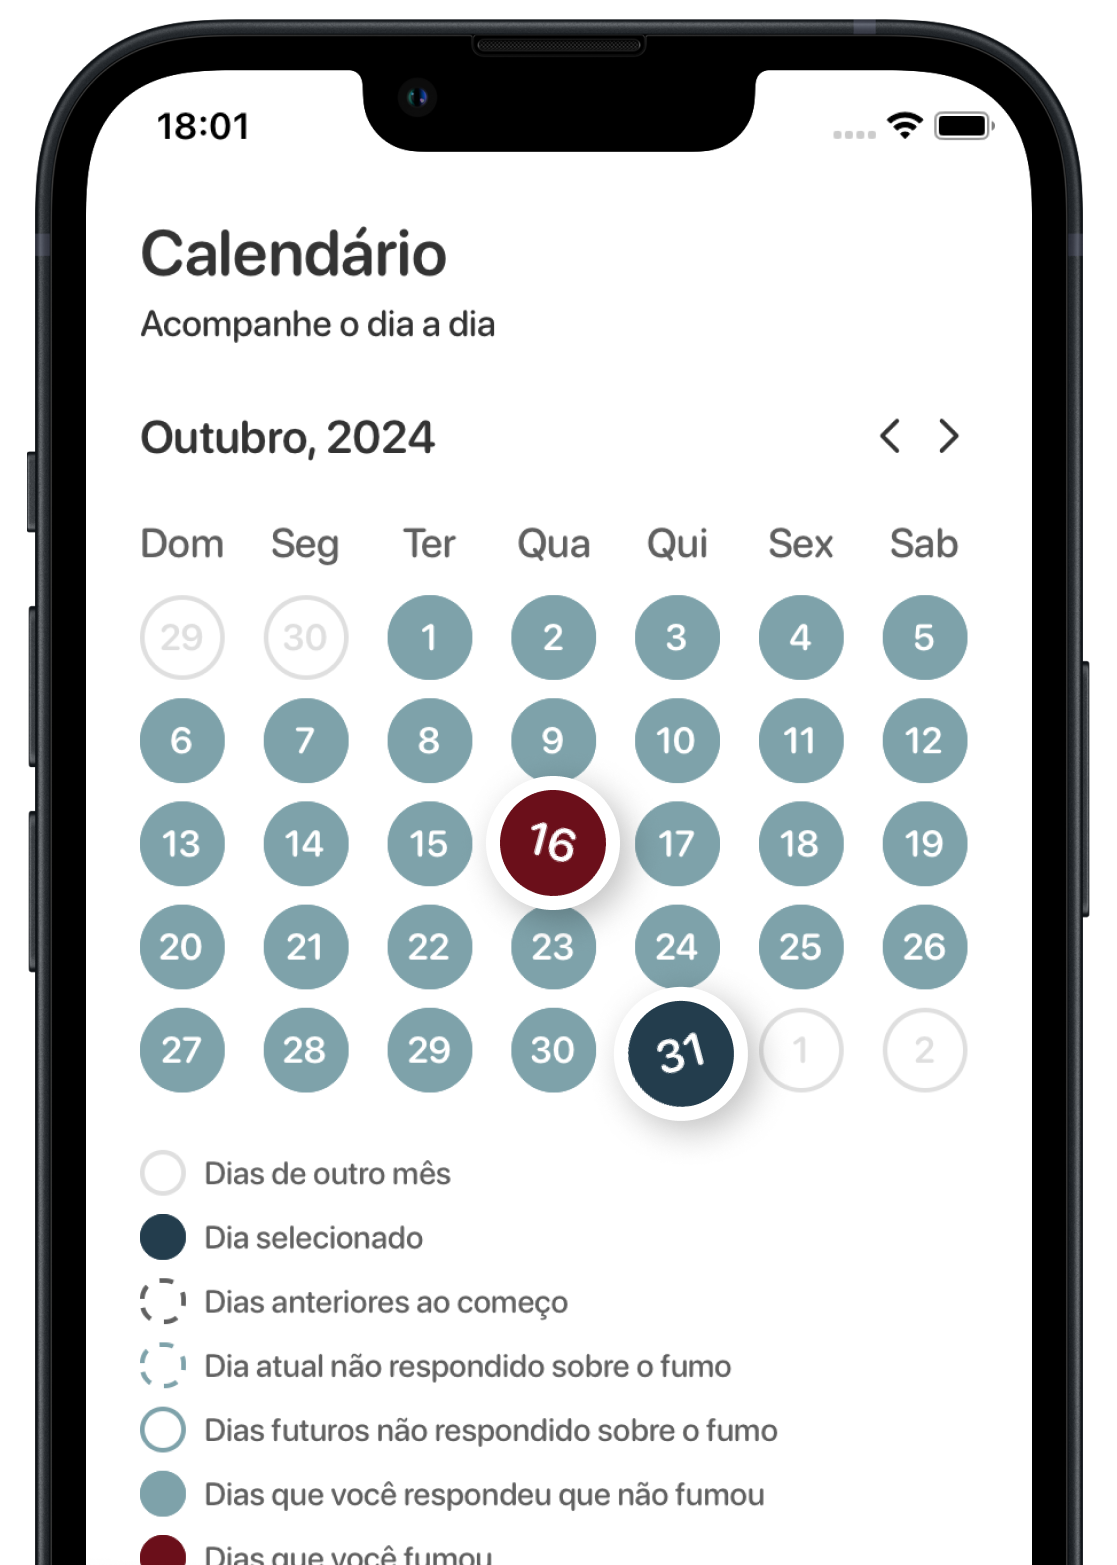
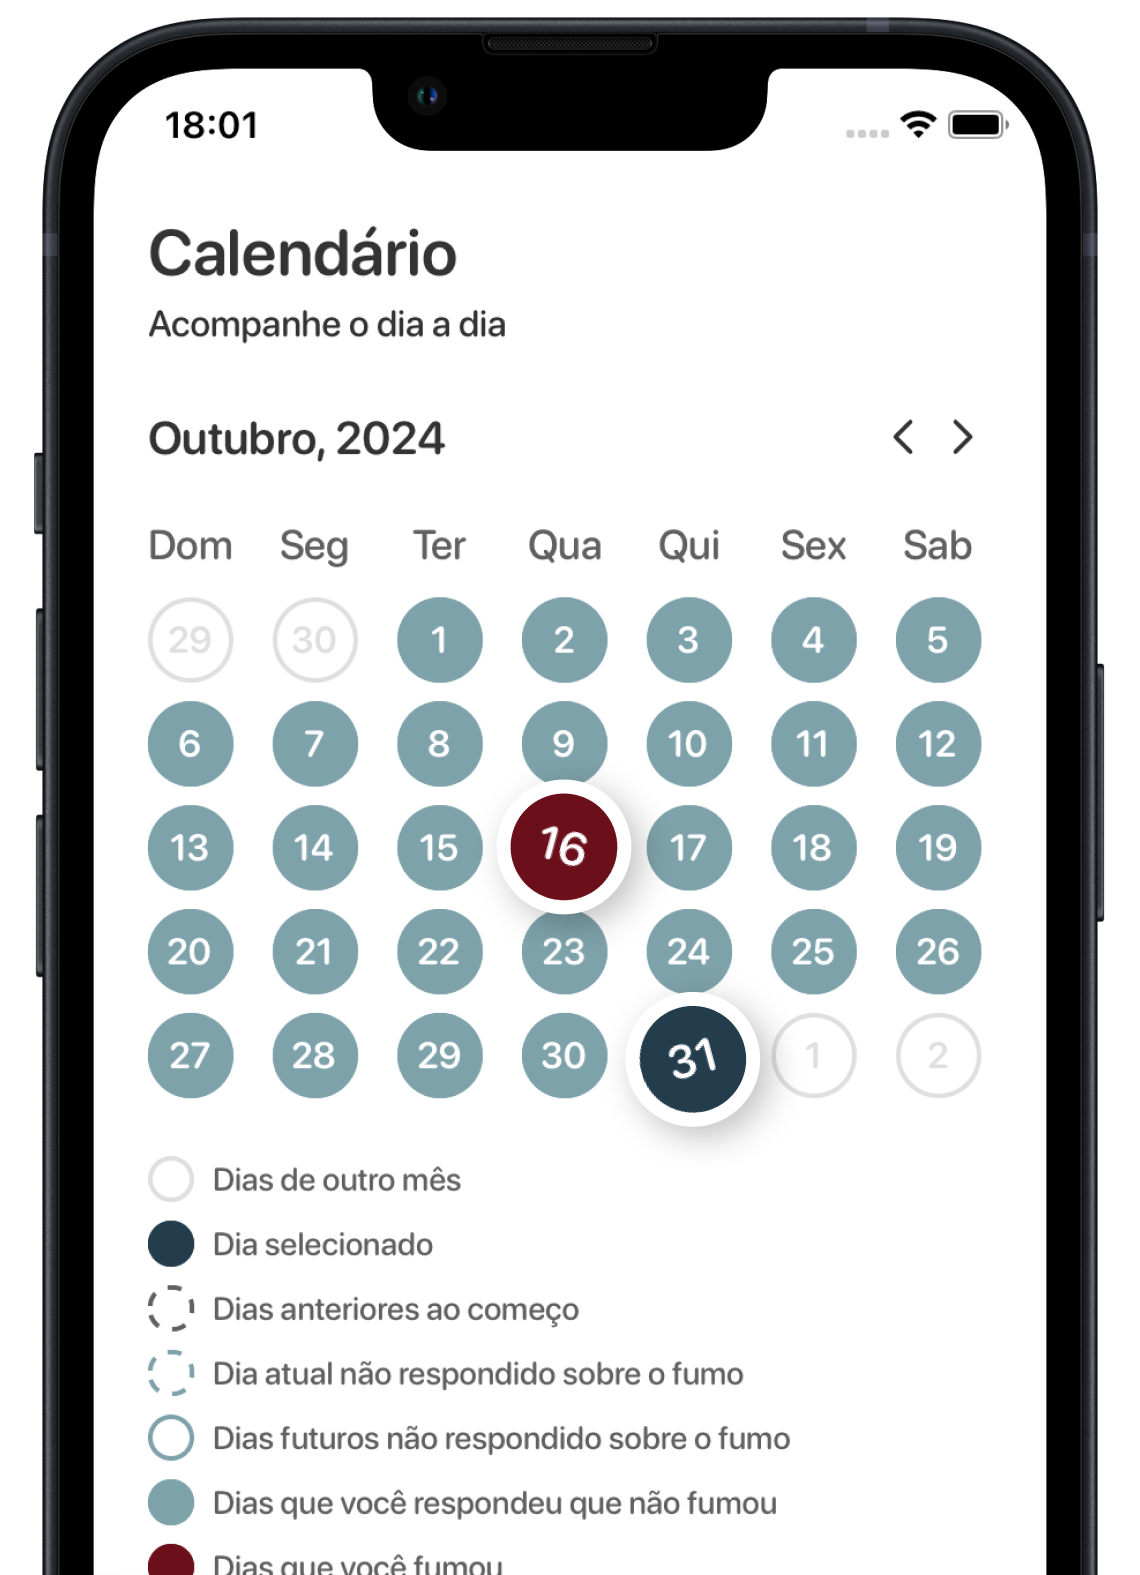
feat

diff --git a/src/screens/onboarding/FeaturesScreen/components/ImageComponent.tsx b/src/screens/onboarding/FeaturesScreen/components/ImageComponent.tsx
@@ -26,8 +26,8 @@ const imageMap: Record<ImageNameProps, ImageSourcePropType> = {
 };
 
 export const ImageComponent = ({ width, imageName }: ImageComponentProps) => {
-  const originalWidth = 1117;
-  const originalHeight = 1565;
+  const originalWidth = 1140;
+  const originalHeight = 1575;
 
   const aspectRatio = originalHeight / originalWidth;
 
